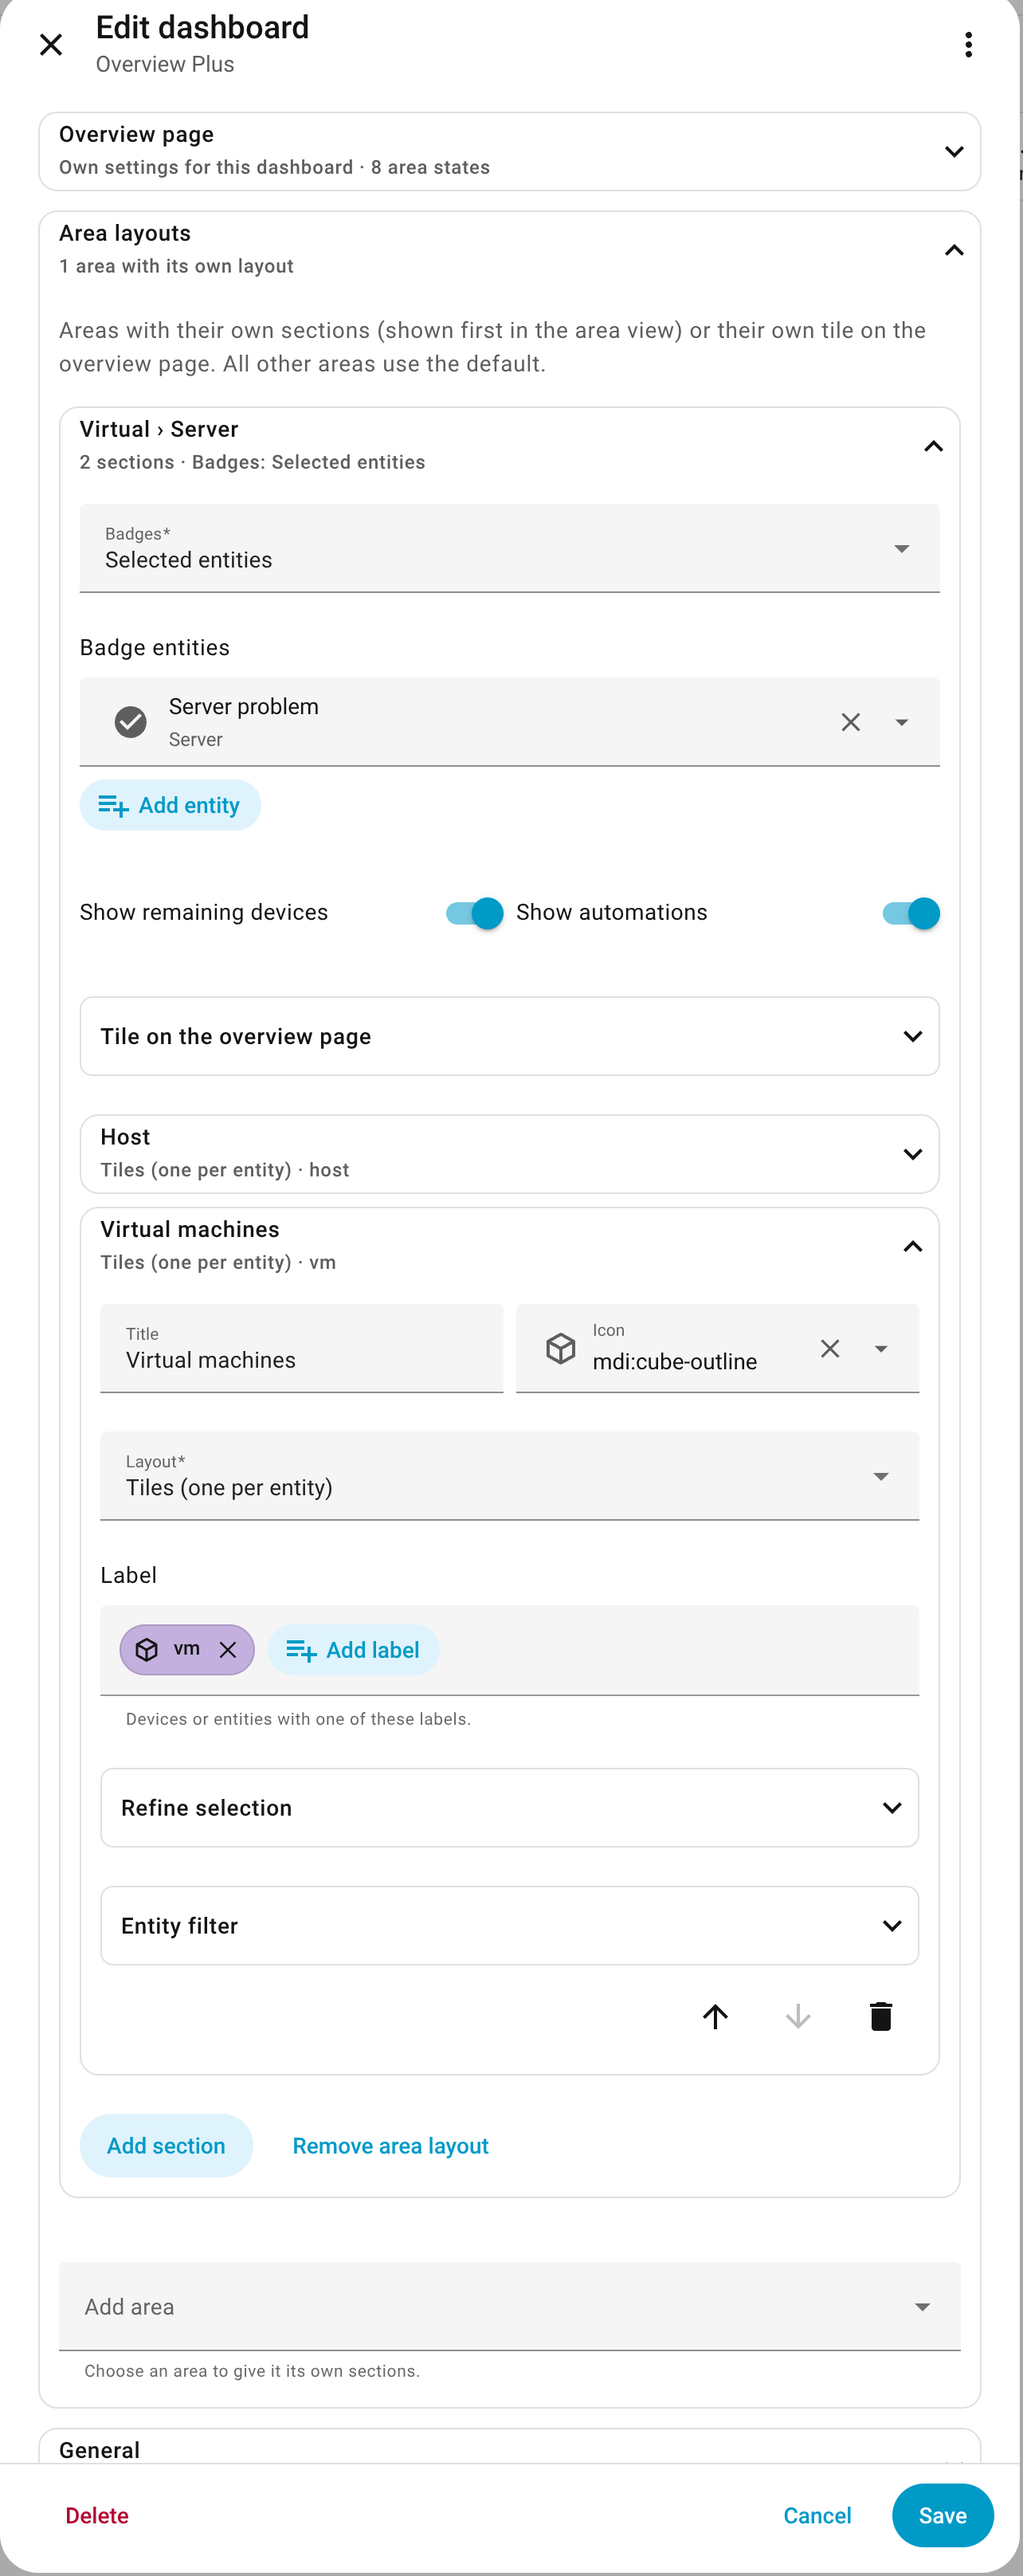
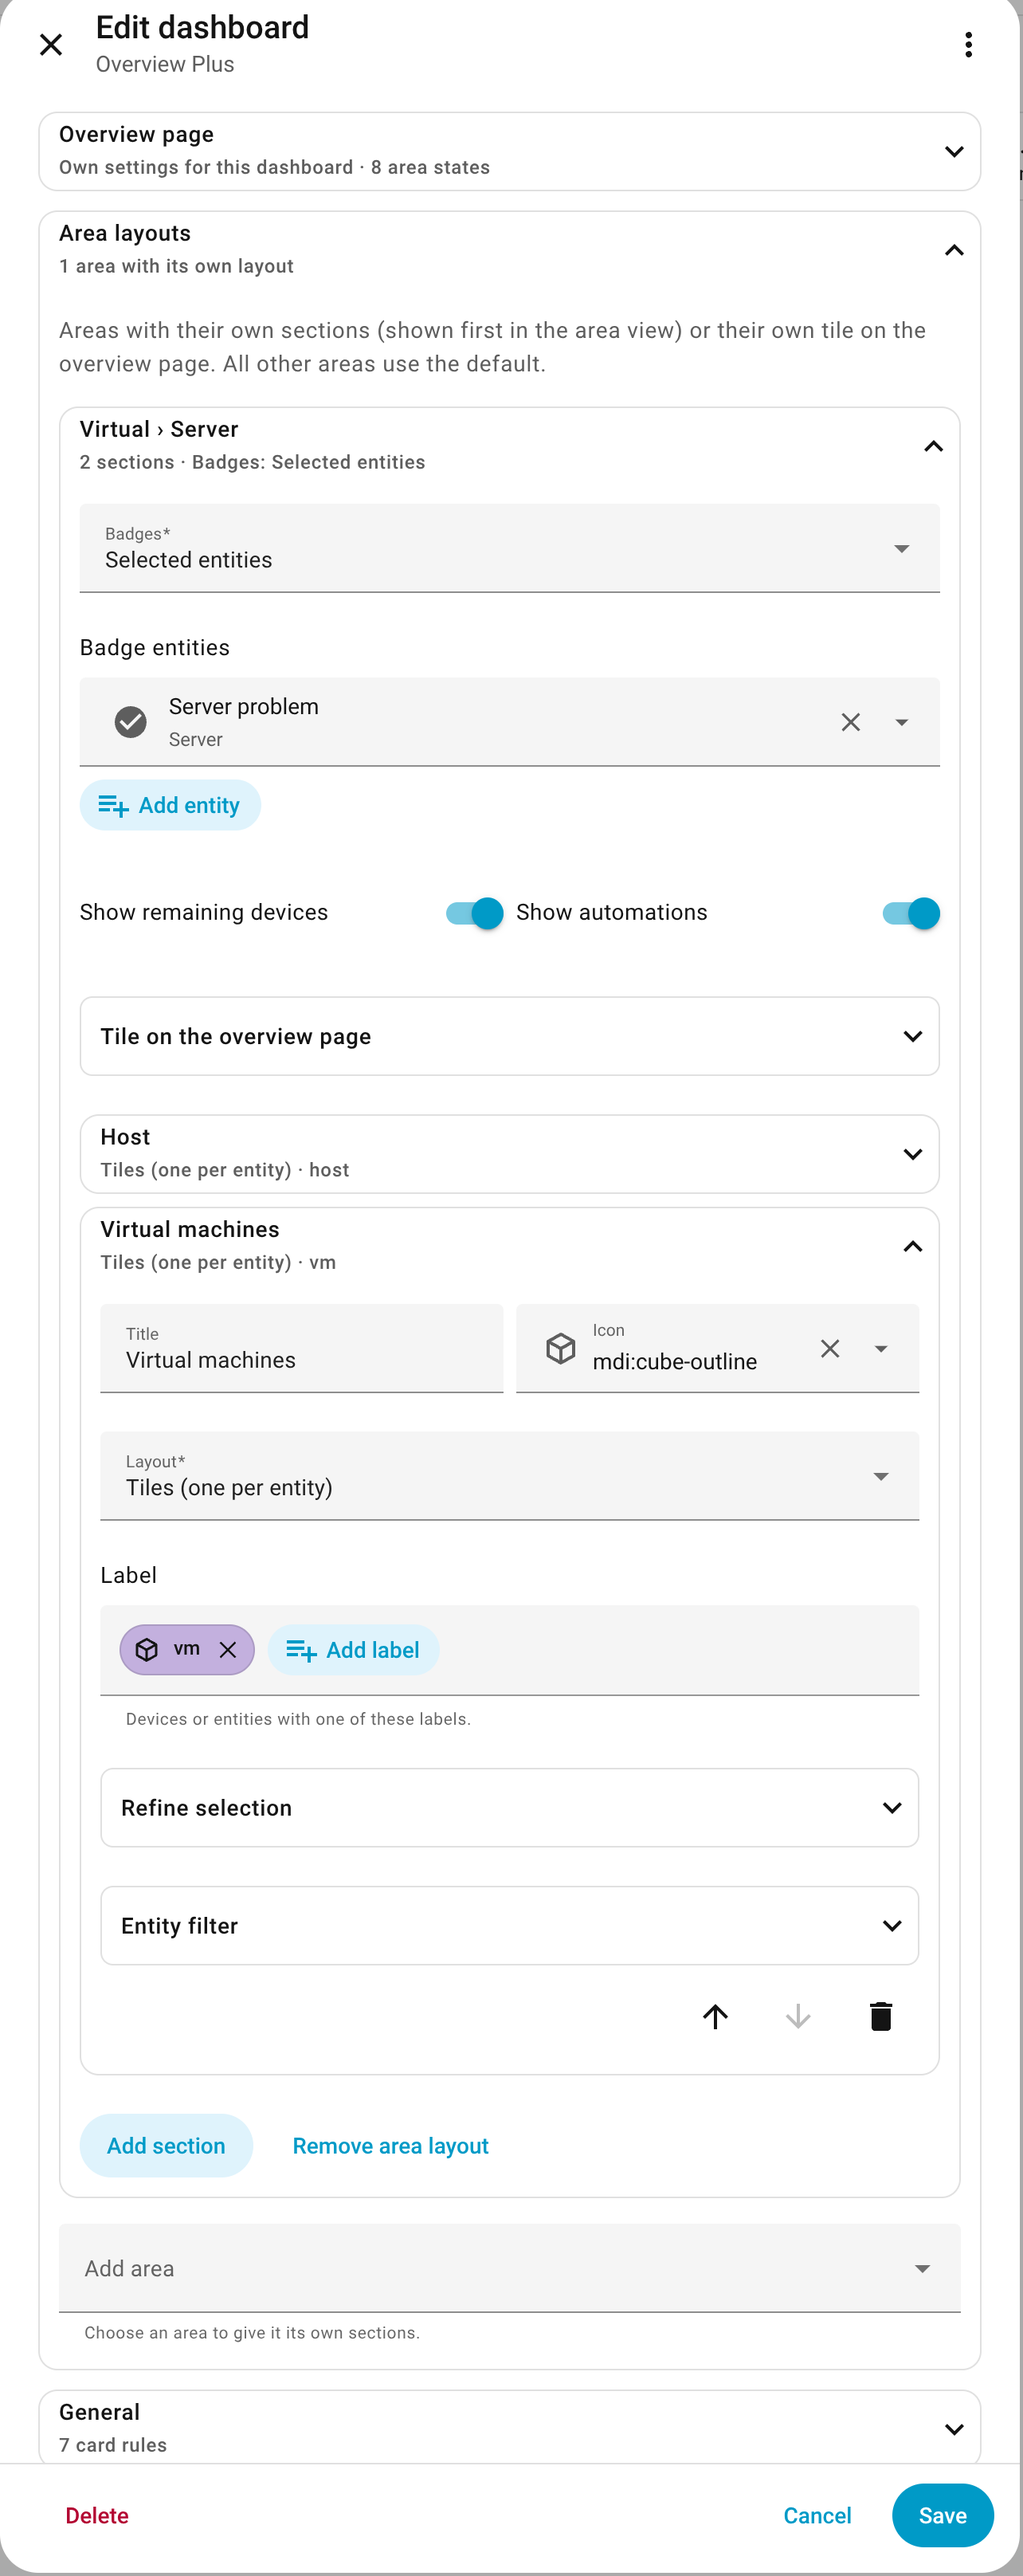
fix: address review of the collapsible editor parts
- React to expanded-changed only from the panel itself: the event
  bubbles, so collapsing a nested panel changed the remembered state of
  its top-level part (and, before, the open state of an area).
- Wrap the Area layouts and General contents like the Overview page, so
  their spacing is not doubled by the panel's flex gap.
- Count only areas that are saved in the Area layouts summary.
- Remove the unused heading helper and styles.
- Tests: bubbling panel events, summaries after changes, blocked storage.

Changed region(s): [[0.0623, 0.875, 0.405, 0.9688]]

diff --git a/src/editor/editor.js b/src/editor/editor.js
@@ -45,9 +45,7 @@ const STYLE = `
   .top { display: block; }
   .top + .top { margin-top: 12px; }
   .top > .panel-body { padding: 16px 12px; }
-  .heading { font-size: var(--ha-font-size-l, 16px); font-weight: var(--ha-font-weight-medium, 500); margin: 0 0 4px; }
   .subheading { font-weight: var(--ha-font-weight-medium, 500); margin: 0 0 4px; }
-  .heading + .subheading { margin-top: 16px; }
   .hint { color: var(--secondary-text-color); margin: 0 0 16px; }
   .list { display: flex; flex-direction: column; gap: 8px; }
   .list:empty { display: none; }
@@ -328,7 +326,10 @@ class OverviewPlusStrategyEditor extends HTMLElement {
       panel.secondary = secondary;
       panel.expanded = expanded;
       panel.outlined = true;
-      panel.addEventListener("expanded-changed", (/** @type {any} */ ev) => onToggle(ev.detail.expanded));
+      // expanded-changed bubbles: react only to this panel, not to panels nested inside it
+      panel.addEventListener("expanded-changed", (/** @type {any} */ ev) => {
+        if (ev.target === panel) onToggle(ev.detail.expanded);
+      });
       if (extras.leading) {
         extras.leading.slot = "leading-icon";
         panel.appendChild(extras.leading);
@@ -417,8 +418,9 @@ class OverviewPlusStrategyEditor extends HTMLElement {
     homePanel.body.append(homeBlock);
 
     // ---- Area layouts: one block per customized area
-    const areaBlock = areaPanel.body;
-    areaBlock.classList.add("areas-block");
+    const areaBlock = document.createElement("div");
+    areaBlock.className = "block areas-block";
+    areaPanel.body.append(areaBlock);
     areaBlock.append(this._hint("editor_areas_help"));
     this._parts.areas = document.createElement("div");
     this._parts.areas.className = "areas list";
@@ -427,8 +429,9 @@ class OverviewPlusStrategyEditor extends HTMLElement {
     areaBlock.append(this._parts.areas, this._parts.addArea);
 
     // ---- General: card rules and options for the whole dashboard
-    const generalBlock = generalPanel.body;
-    generalBlock.classList.add("general");
+    const generalBlock = document.createElement("div");
+    generalBlock.className = "block general";
+    generalPanel.body.append(generalBlock);
     this._parts.rules = document.createElement("div");
     this._parts.rules.className = "rules list";
     const ruleActions = document.createElement("div");
@@ -491,9 +494,11 @@ class OverviewPlusStrategyEditor extends HTMLElement {
     const states = (this._form.indicators || []).filter((/** @type {any} */ i) => i.enabled || i.custom).length;
     this._topHeaders.home?.(this._t(TOP_TITLES.home), [
       this._t(own ? "editor_h_source_own" : "editor_h_source_builtin"),
-      ...(states ? [n(states, "editor_one_state", "editor_n_states", "editor_n_states")] : []),
+      ...(states ? [this._t(states === 1 ? "editor_one_state" : "editor_n_states", { n: String(states) })] : []),
     ].join(" · "));
-    this._topHeaders.areas?.(this._t(TOP_TITLES.areas), n(this._form.areas.length, "editor_one_area", "editor_n_areas", "editor_no_areas_short"));
+    // Areas that are saved: an added area without sections or own options has no override yet
+    const saved = Object.keys(fromForm(this._form, this._config).area_overrides || {}).length;
+    this._topHeaders.areas?.(this._t(TOP_TITLES.areas), n(saved, "editor_one_area", "editor_n_areas", "editor_no_areas_short"));
     this._topHeaders.general?.(this._t(TOP_TITLES.general), n(this._form.rules.length, "editor_one_rule", "editor_n_rules", "editor_no_rules_short"));
   }
 
@@ -509,13 +514,6 @@ class OverviewPlusStrategyEditor extends HTMLElement {
     return { hass: this._hass, t: (/** @type {string} */ k, /** @type {any} */ p) => this._t(k, p) };
   }
 
-  /** @param {string} key */
-  _heading(key) {
-    const el = document.createElement("div");
-    el.className = "heading";
-    el.textContent = this._t(key);
-    return el;
-  }
 
   /** @param {string} key */
   _hint(key) {

diff --git a/test/editor.test.js b/test/editor.test.js
@@ -418,9 +418,35 @@ test("top-level parts are collapsible, collapsed at first, with a summary; the o
   const summaries = tops.map((d) => d.querySelector(":scope > summary").textContent);
   assert.match(summaries[0], /Overview page.*Own settings/);
   assert.match(summaries[1], /2 areas with their own layout/);
-  assert.match(summaries[2], /1 card rule/);
+  assert.match(summaries[2], /General1 card rule$/);
   tops[1].open = true;
   tops[1].dispatchEvent(new Event("toggle"));
   const again = setup({ type: "custom:overview-plus" });
   assert.ok(root(again.editor).querySelector("details.top-areas").open, "remembered in this browser");
+  window.localStorage.removeItem("overview-plus:editor-open");
+});
+
+test("top-level summaries follow changes", () => {
+  const { editor } = setup({ type: "custom:overview-plus" });
+  const header = (key) => root(editor).querySelector(`details.top-${key} > summary`).textContent;
+  assert.match(header("general"), /No card rules$/);
+  click(buttons(root(editor), "Add rule")[0]);
+  assert.match(header("general"), /General1 card rule$/);
+  assert.match(header("areas"), /All areas use the default layout$/);
+  edit(formWith(root(editor), "h_source"), { h_source: "own" });
+  assert.match(header("home"), /Own settings for this dashboard$/);
+});
+
+test("the editor works when the browser storage is not available", () => {
+  const original = Object.getOwnPropertyDescriptor(win, "localStorage");
+  Object.defineProperty(win, "localStorage", { configurable: true, get() { throw new Error("blocked"); } });
+  try {
+    const { editor } = setup({ type: "custom:overview-plus" });
+    const top = root(editor).querySelector("details.top-general");
+    assert.ok(top && !top.open);
+    top.open = true;
+    top.dispatchEvent(new Event("toggle"));
+  } finally {
+    if (original) Object.defineProperty(win, "localStorage", original);
+  }
 });

diff --git a/test/editor-panels.test.js b/test/editor-panels.test.js
@@ -1,0 +1,33 @@
+// The editor with a stand-in for HA's ha-expansion-panel, whose expanded-changed event bubbles.
+import { test } from "node:test";
+import assert from "node:assert/strict";
+import { Window } from "happy-dom";
+import { makeHass } from "./fixtures.js";
+
+const win = new Window({ url: "http://ha.local/" });
+for (const key of ["window", "document", "customElements", "HTMLElement", "CustomEvent", "Event"]) globalThis[key] = win[key];
+win.customElements.define("ha-form", class extends win.HTMLElement {});
+win.customElements.define("ha-expansion-panel", class extends win.HTMLElement {
+  toggle(open) {
+    this.expanded = open;
+    this.dispatchEvent(new CustomEvent("expanded-changed", { detail: { expanded: open }, bubbles: true, composed: true }));
+  }
+});
+const { EDITOR_TAG } = await import("../src/editor/editor.js");
+
+test("collapsing a nested panel does not change the remembered top-level part", () => {
+  win.localStorage.removeItem("overview-plus:editor-open");
+  const editor = document.createElement(EDITOR_TAG);
+  document.body.appendChild(editor);
+  editor.hass = makeHass();
+  editor.setConfig({ type: "custom:overview-plus", area_overrides: { proxmox: { sections: [{ title: "A", match: { label: "a" } }] } } });
+  const top = editor.shadowRoot.querySelector(".top-areas");
+  top.toggle(true);
+  assert.deepEqual(JSON.parse(win.localStorage.getItem("overview-plus:editor-open")), ["areas"]);
+  const area = top.querySelector(".area-panel");
+  area.toggle(true);
+  area.toggle(false);
+  assert.deepEqual(JSON.parse(win.localStorage.getItem("overview-plus:editor-open")), ["areas"], "the area panel's events stay with it");
+  top.toggle(false);
+  assert.deepEqual(JSON.parse(win.localStorage.getItem("overview-plus:editor-open")), []);
+});

diff --git a/README.md b/README.md
@@ -49,7 +49,7 @@ parts, each with a short summary of what is set.
 <table>
 <tr>
 <td width="50%" valign="top"><b>Overview page</b> – favorites, summaries and shortcuts, own or those of the built-in Overview<br><br><img src="https://raw.githubusercontent.com/financelurker/ha-overview-plus/main/docs/images/editor-overview-page.png?v=6b005b3557" alt="Editor: overview page settings"></td>
-<td width="50%" valign="top"><b>Area layout</b> – badges, tile and sections, selected by label, integration and more<br><br><img src="https://raw.githubusercontent.com/financelurker/ha-overview-plus/main/docs/images/editor-area.png?v=68e82e4bf7" alt="Editor: area layout with sections"></td>
+<td width="50%" valign="top"><b>Area layout</b> – badges, tile and sections, selected by label, integration and more<br><br><img src="https://raw.githubusercontent.com/financelurker/ha-overview-plus/main/docs/images/editor-area.png?v=25b0602faa" alt="Editor: area layout with sections"></td>
 </tr>
 <tr>
 <td width="50%" valign="top"><b>Card rule</b> – replace a card and show another one in a popup on tap<br><br><img src="https://raw.githubusercontent.com/financelurker/ha-overview-plus/main/docs/images/editor-card-rule.png?v=a48dda084d" alt="Editor: card rule with popup"></td>
